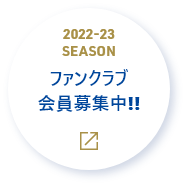
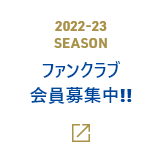
edit hover

diff --git a/files/user/lp/boosterclub/css/styles.css b/files/user/lp/boosterclub/css/styles.css
@@ -430,11 +430,34 @@
 	z-index: 3;	
 }
 .btn-season a{
+	position: relative;
 	display: inline-block;
+	line-height: 1;
+	border-radius: 50%;
 	transition: all 0.3s;
+	-webkit-box-shadow: 4px 4px 8px 0px rgba(16,50,121,0.2);
+	-moz-box-shadow: 4px 4px 8px 0px rgba(16,50,121,0.2);
+	box-shadow: 4px 4px 8px 0px rgba(16,50,121,0.2);
 }
-.btn-season a:hover{
-	opacity: 0.7;
+.btn-season a::before{
+	content: '';
+	width: 178px;
+	height: 178px;
+	background: rgba(255, 255, 255, 0.43);
+	position: absolute;
+	top: 50%;
+	left: 50%;
+	border-radius: 50%;
+	transform: translate(-50%, -50%);
+	z-index: 1;
+	transition: all 0.2s ease-in-out;
+}
+.btn-season a img{
+	z-index: 2;
+	position: relative;
+}
+.btn-season a:hover::before{
+	background: #fff;
 }
 @media screen and (max-width: 767px){
 	.btn-season{
